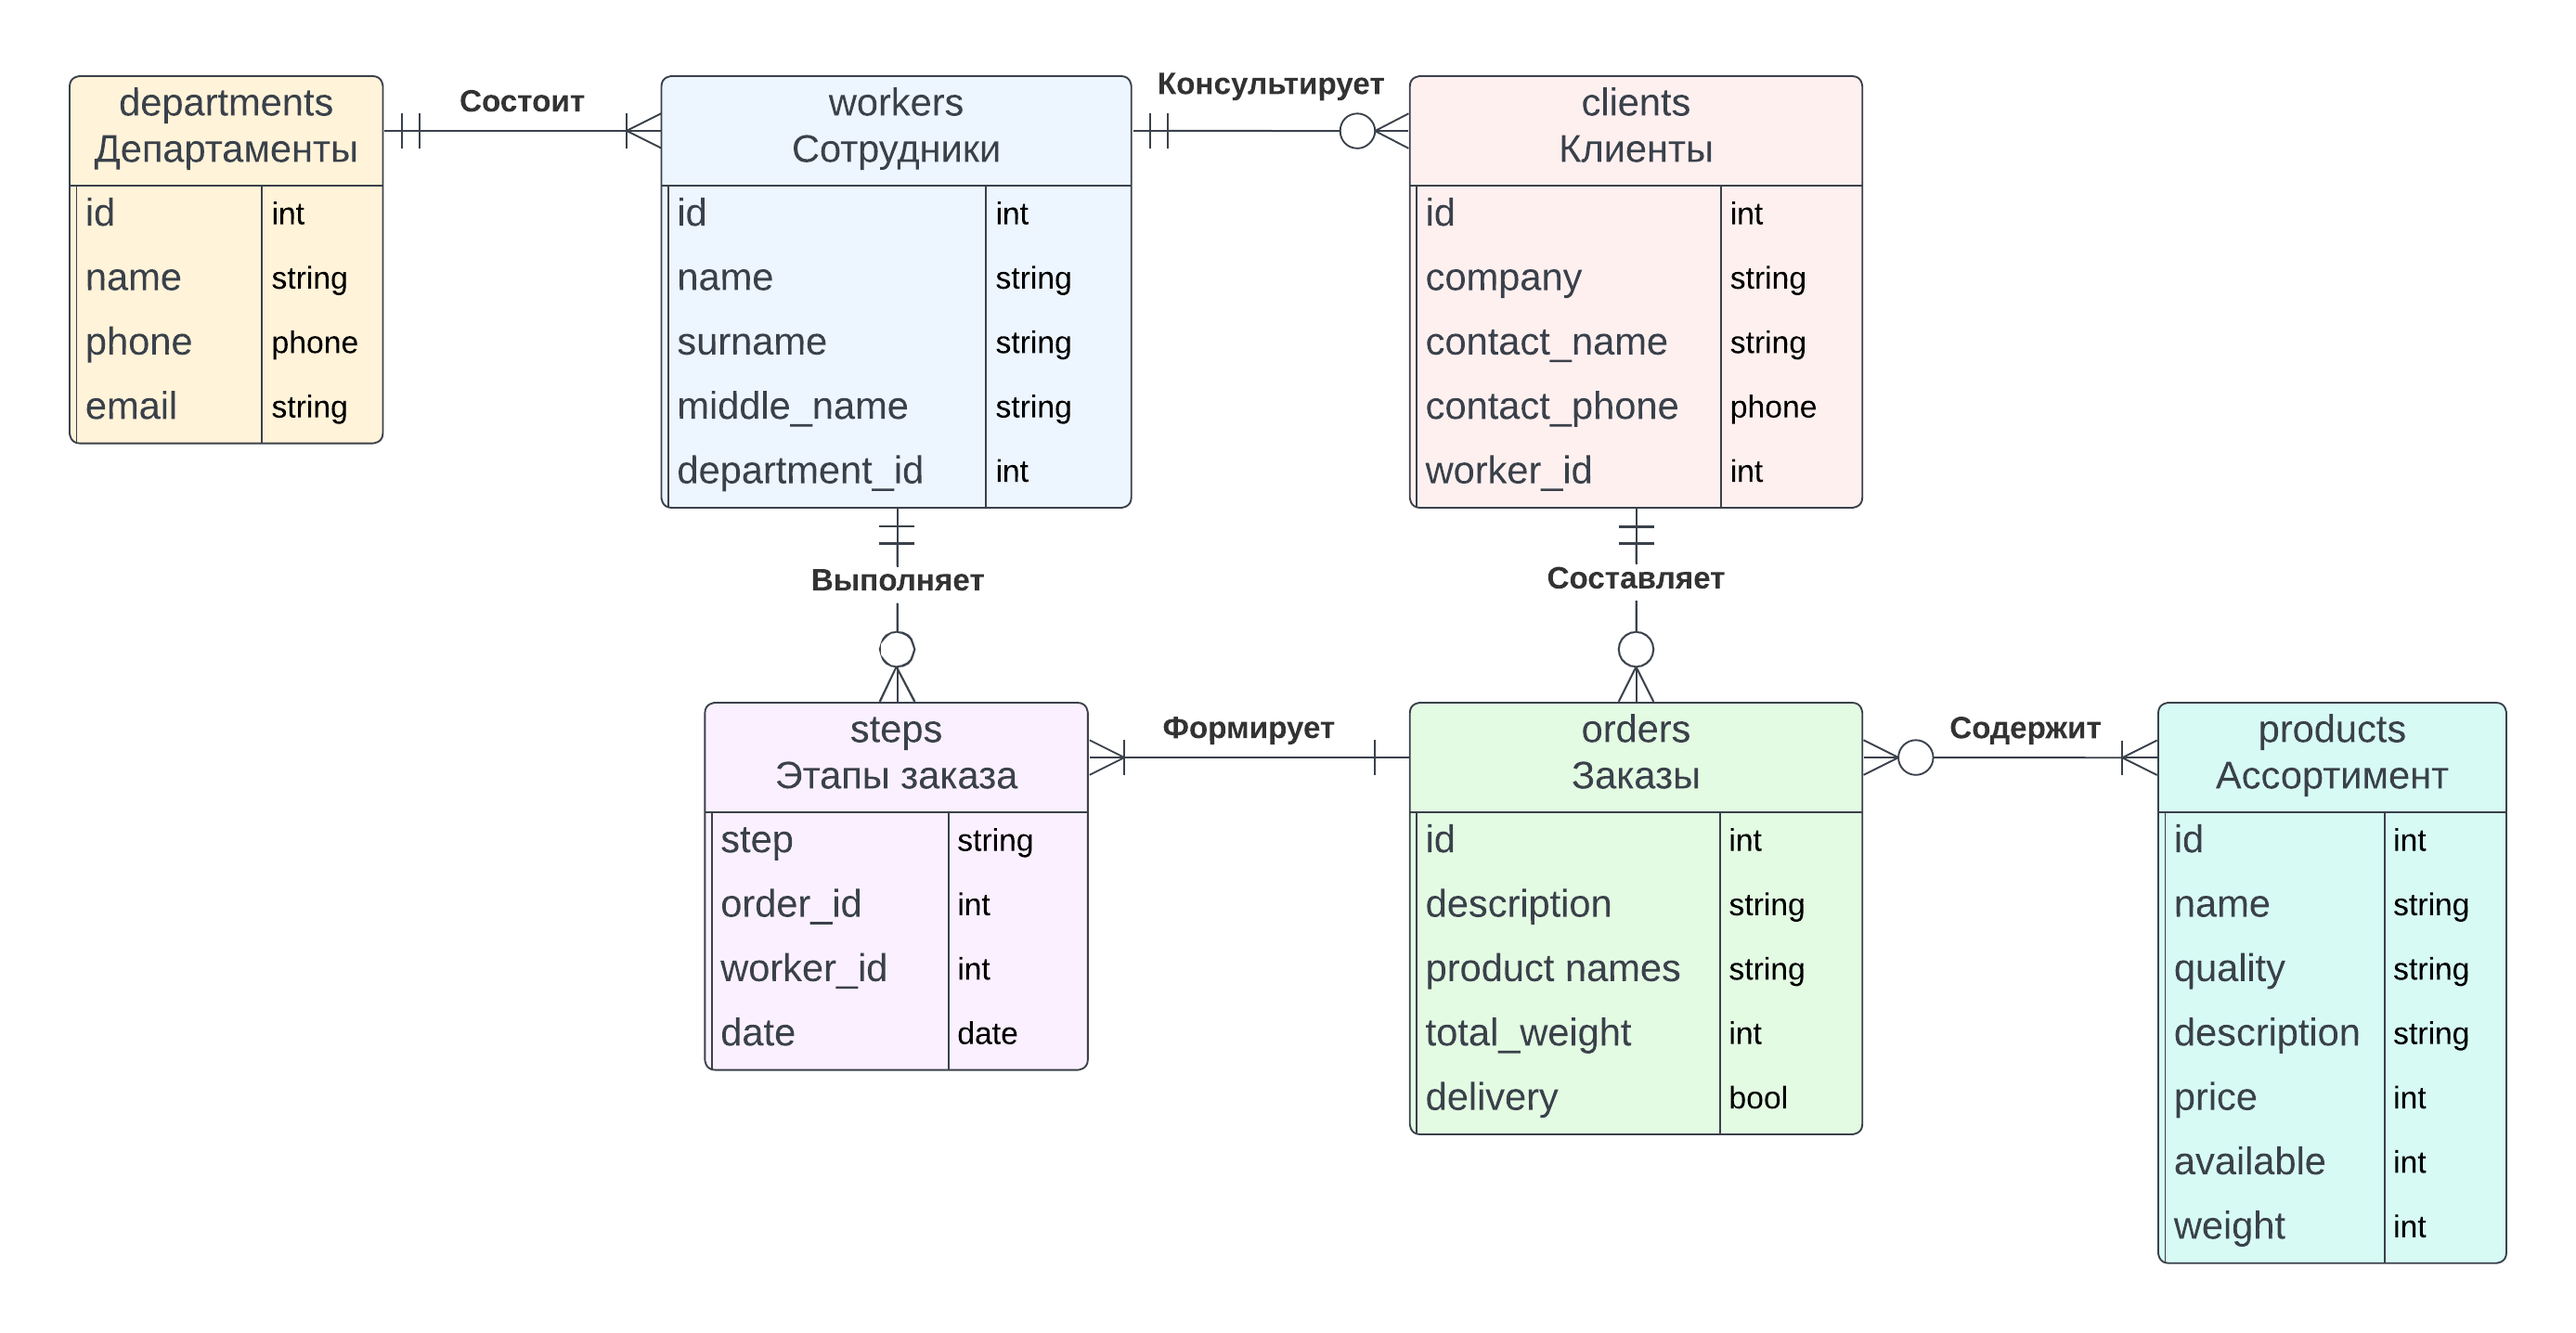
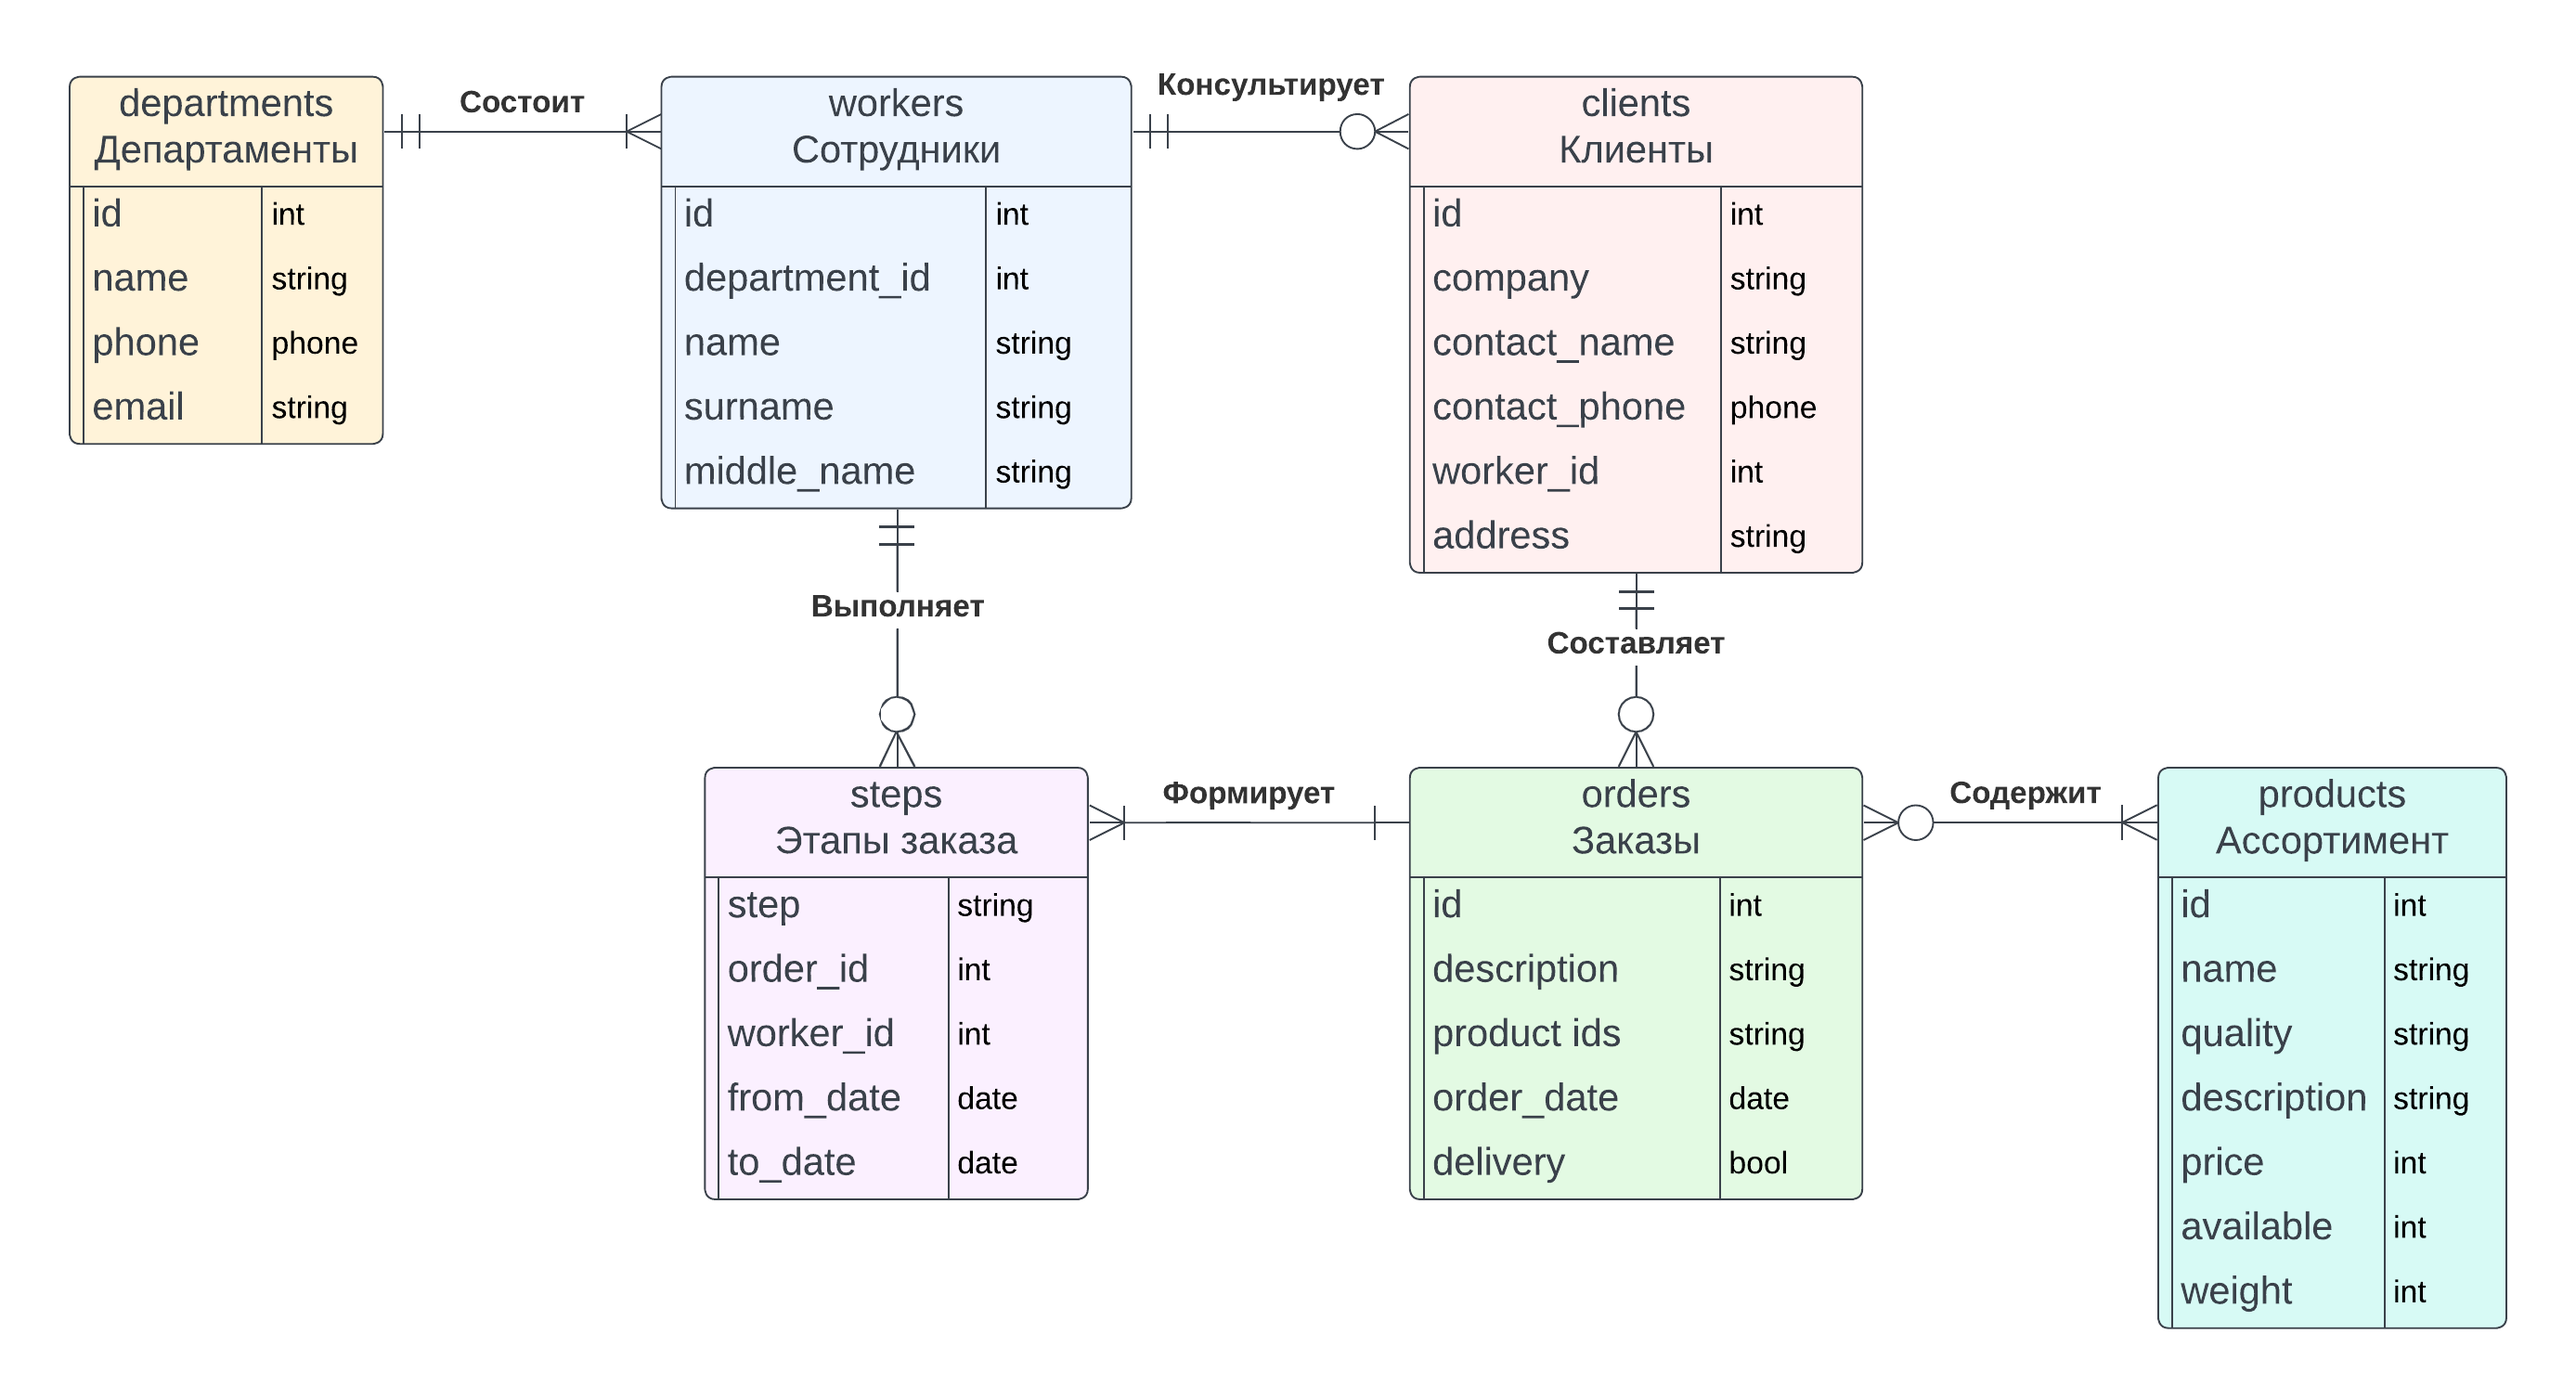
Changed concept model

diff --git a/README.md b/README.md
@@ -17,10 +17,10 @@
 ### Не детализированные сущности:
 1. Сотрудники (с информацией: ID сотрудника, имя, фамилия, отчество, отдел)
 2. Департаменты (с информацией: ID департамента, название, контактный телефон, контактная почта)
-3. Клиенты (с информацией: ID клиента, название компании, контактное лицо, контактный телефон, ID менеджера, работающего с клиентом)
-4. Заказы (с информацией: ID заказа, описание, товары, итоговая масса заказа, флаг самовывоза)
-5. Этапы заказов (с информацией: ID этапа, ID заказа, исполнитель, даты)
-6. Продукты (с информацией: ID товара, название, качество товара(номер ГОСТа), описание, цена, количество на складе, вес за единицу)
+3. Клиенты (с информацией: ID клиента, название компании, контактное лицо, контактный телефон, ID менеджера, работающего с клиентом, адрес)
+4. Заказы (с информацией: ID заказа, описание, товары, дата заказа, флаг самовывоза)
+5. Этапы заказов (с информацией: ID этапа, ID заказа, исполнитель, даты начала и конца этапа)
+6. Продукты (с информацией: ID товара, название, качество товара (номер ГОСТа), описание, цена единицы товара, количество на складе, вес единицы товара)
 
 ### Сущности будут связаны следующим образом:
 1. В каждом департаменте не менее одного сотрудника (**один ко многим**).
